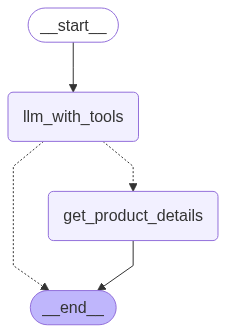
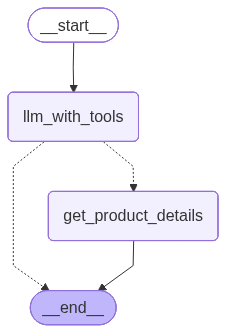
refactor: rename files and update images
- Rename chatbot.py to 1_chatbot.py
- Rename langgraph_prompt_chain_workflow.py to 2_langgraph_prompt_chain_workflow.py
- Rename langgraph_agent_toolnode_messagegraph.py to 3_langgraph_agent_toolnode_messagegraph.py
- Rename langgraph_tools_agent.py to 4_langgraph_tools_agent.py
- Update chatbot_graph.png, langgraph_toolnode_messagegraph.png, and pre_built_agent_graph.png
- Update requirements.txt

diff --git a/1_chatbot.py b/1_chatbot.py
@@ -17,6 +17,9 @@ from langchain.chat_models import init_chat_model
 from langgraph.graph.message import add_messages
 from IPython.display import display,Image
 from langgraph.checkpoint.memory import InMemorySaver
+# save the graph
+from langchain_core.runnables.graph import MermaidDrawMethod
+
 
 
 # STEP 2 Define the LLM
@@ -25,7 +28,7 @@ llm = init_chat_model(model="gemini-2.5-flash",model_provider="google_genai",tem
 # STEP 3 Defin the Chatbot STATE -- ScrachPAD
 
 class State(TypedDict):
-    messages: Annotated[list,add_messages]
+    messages: Annotated[list,add_messages]  # Reducer to add messages to the state
 
 # STEP 4 Define the CHATBOT node
 
@@ -46,8 +49,9 @@ memory_saver=InMemorySaver()
 
 graph_without_memory=graph_builder.compile()   # without mememory
 
-# save the graph
-png_data = graph_without_memory.get_graph().draw_mermaid_png()
+
+# Use Pyppeteer rendering method to avoid relying on the online API
+png_data = graph_without_memory.get_graph().draw_mermaid_png(draw_method=MermaidDrawMethod.PYPPETEER, max_retries=5, retry_delay=2.0)
 with open("chatbot_graph.png", "wb") as f:
     f.write(png_data)
 print("Graph saved as chatbot_graph.png")
